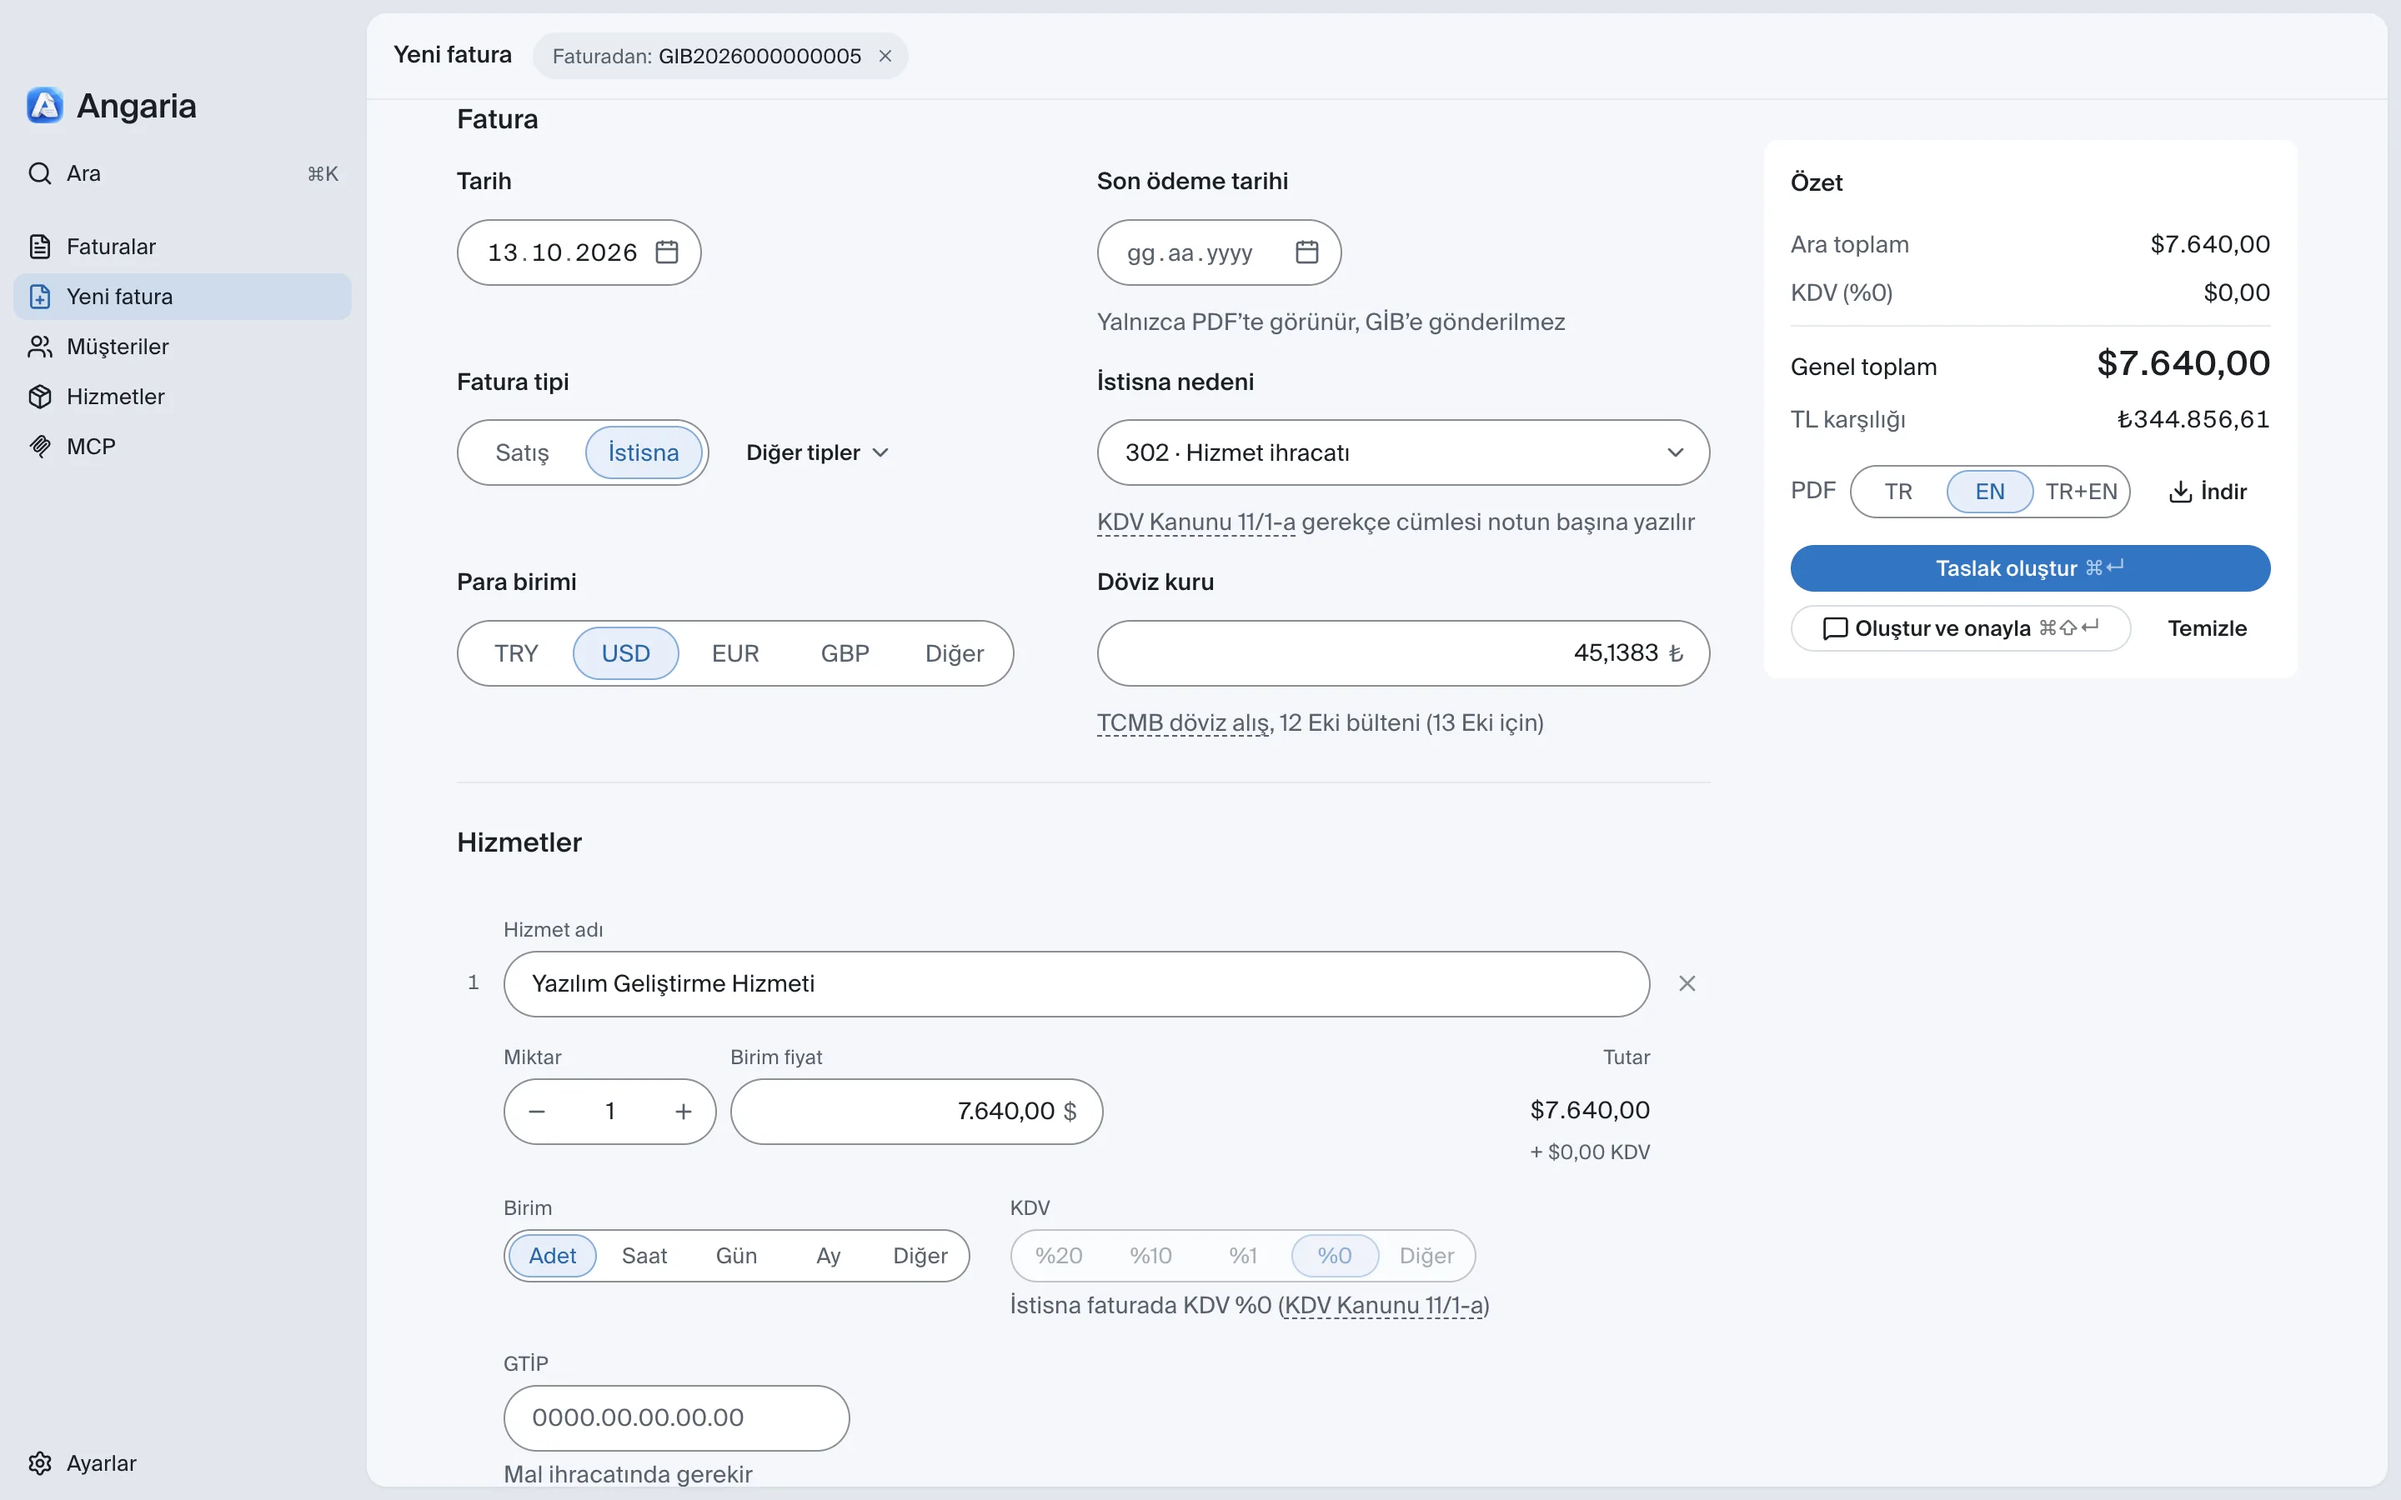
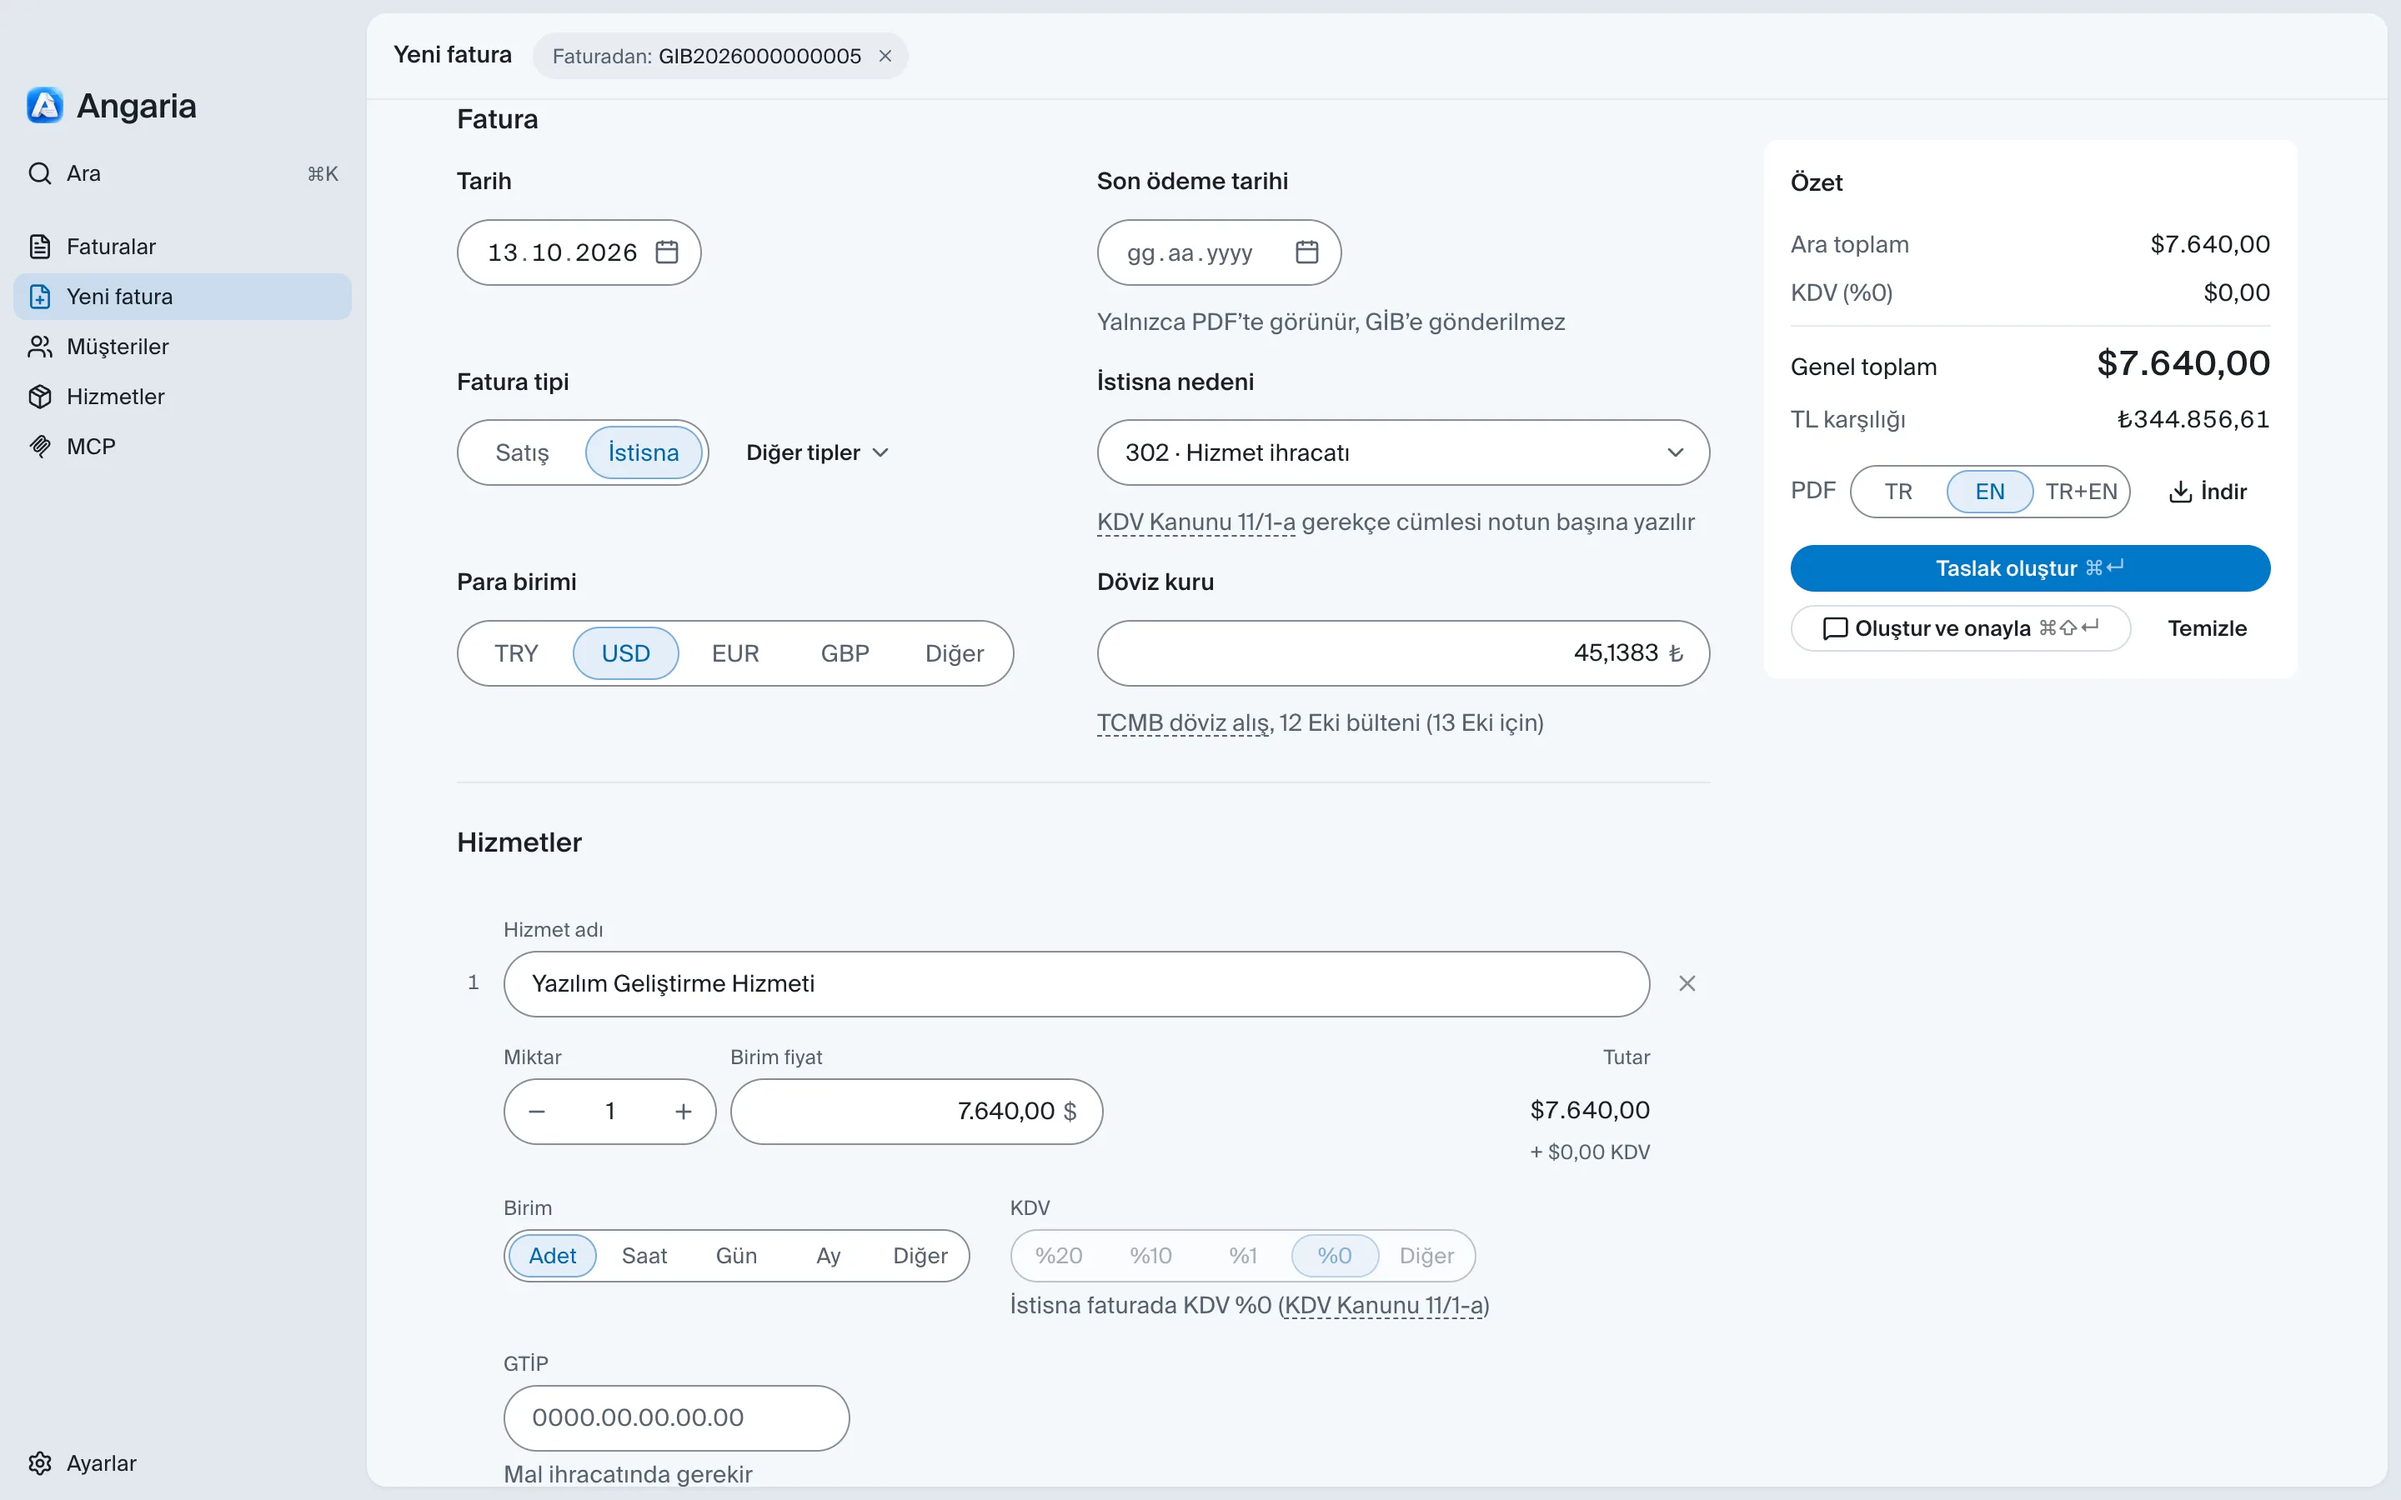
fix(web): screenshots in sRGB, not dull Display P3 values
The captures held Display P3 values and the WebP export dropped their
profile, so the brand blue came out as (51, 117, 194). Each capture is
converted to sRGB with its embedded profile first; the button now reads
#0077c8 in light and #0098f2 in dark.

Changed region(s): [[0.75, 0.3422, 0.9688, 0.4044], [0.0, 0.0622, 0.0312, 0.0933]]

diff --git a/docs/screenshots.md b/docs/screenshots.md
@@ -2,6 +2,8 @@
 
 Marketing screenshots of the Angaria desktop app for angaria.app, captured 2026-10-13. The dev frontend (`pnpm --filter desktop dev`) ran in a browser at a 1440×900 viewport, device scale 2 (captured through CDP `Page.captureScreenshot`), in the default palette (mist, Serin), against the GİB emulator (Ayarlar › Gelişmiş › Emülatör, user 12345678) with its seed invoices and TCMB rates, and Suisse Intl. The sidebar icon was swapped for the release (blue) icon before each capture. Every name and number is demo data: the seller is Mert Düzgün (emulator user 12345678), the customers are Agent Caffeine (USD), knobs.dev (EUR), attention awareness (GBP), Vinena Studio (TRY, Satış) and Ahmet Buğra Yiğiter (TRY, a person).
 
+Colors: the captures on this Mac come out in Display P3 (the PNG carries a Skia P3 profile), and a WebP written without that profile shows them dull. Convert each PNG to sRGB with its embedded profile first (Pillow `ImageCms.profileToProfile(image, embeddedProfile, sRGB)`), then check a known color: the light theme's Yeni fatura button must read `#0077c8` and the dark theme's `#0098f2`.
+
 A plain browser cannot keep the GİB session in the vault or force-close one (no cross-origin cookies), so do not reload during a capture: change the theme in Ayarlar › Görünüm and navigate inside the app. If GİB refuses a login for an open session, restart the emulator (touch a file in `packages/gib-emulator/src`).
 
 ## Files
